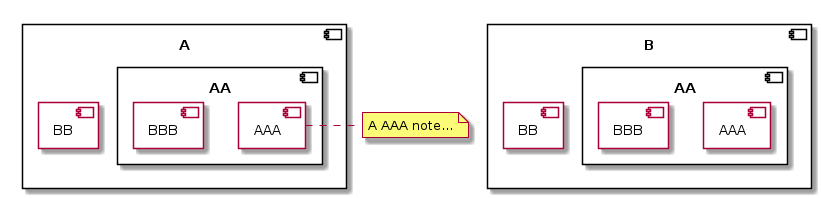
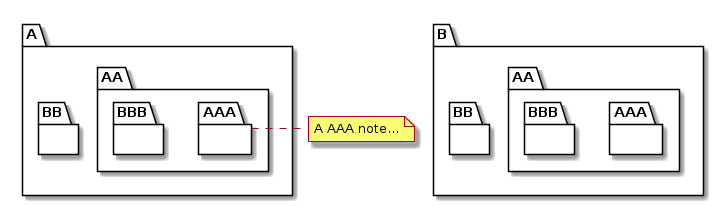
Updated test cases documentation

Changed region(s): [[0.0, 0.0909, 1.0, 1.0]]

diff --git a/README.md b/README.md
@@ -20,7 +20,7 @@ Main features supported so far include:
 * Sequence diagram generation
     * Generation of sequence diagram from one code location to another
 * Package diagram generation
-    * Generation of package diagram based on C++ namespaces (currently uses component symbols for packages, but it can be adjusted using skinparams)
+    * Generation of package diagram based on C++ namespaces
 
 ## Installation
 
